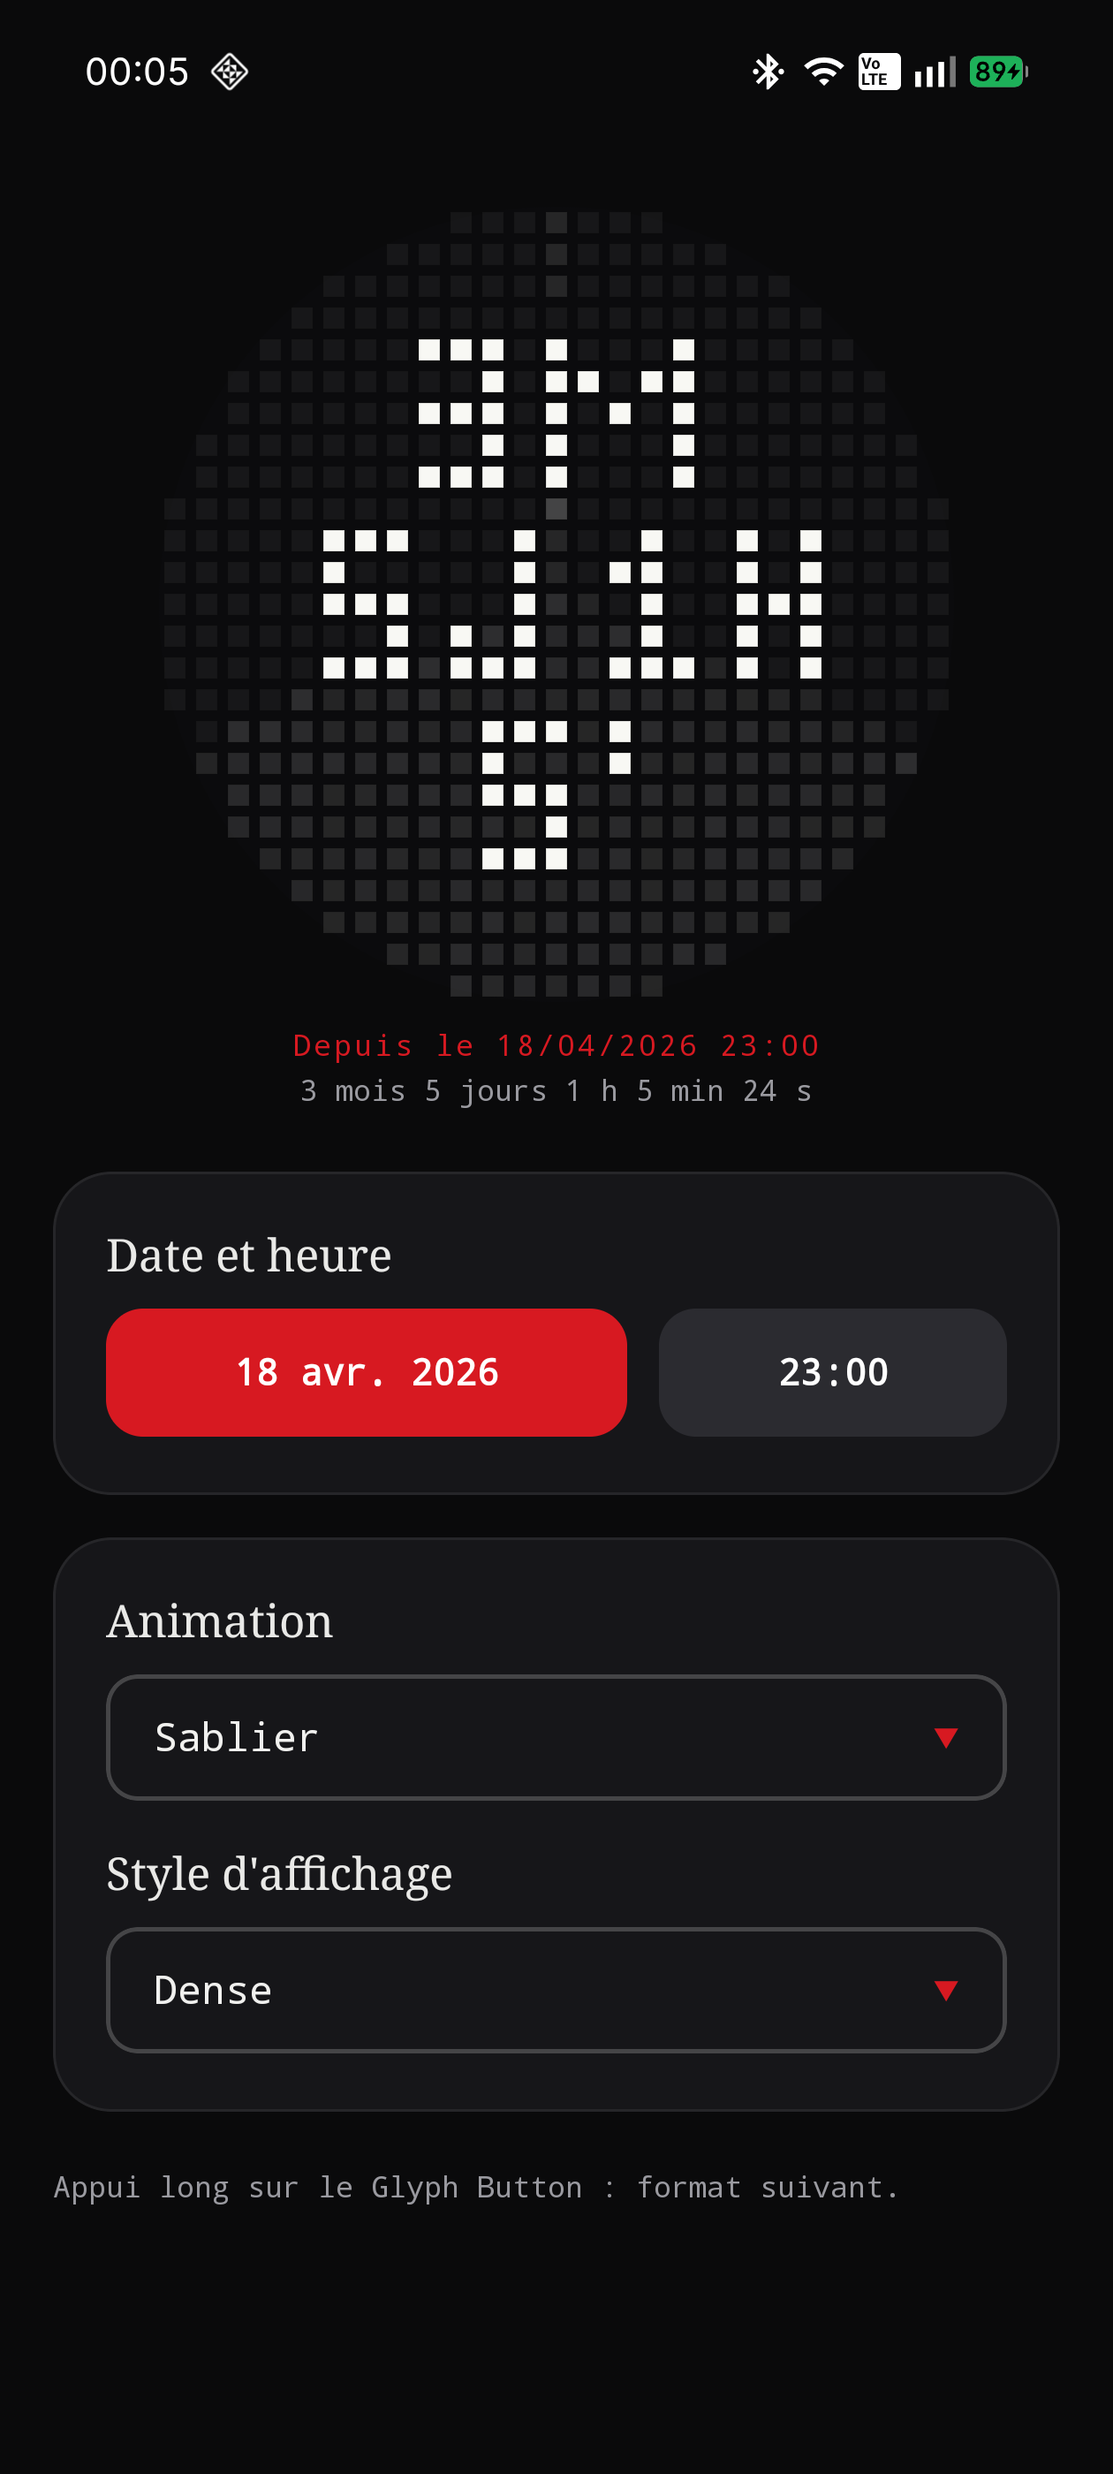
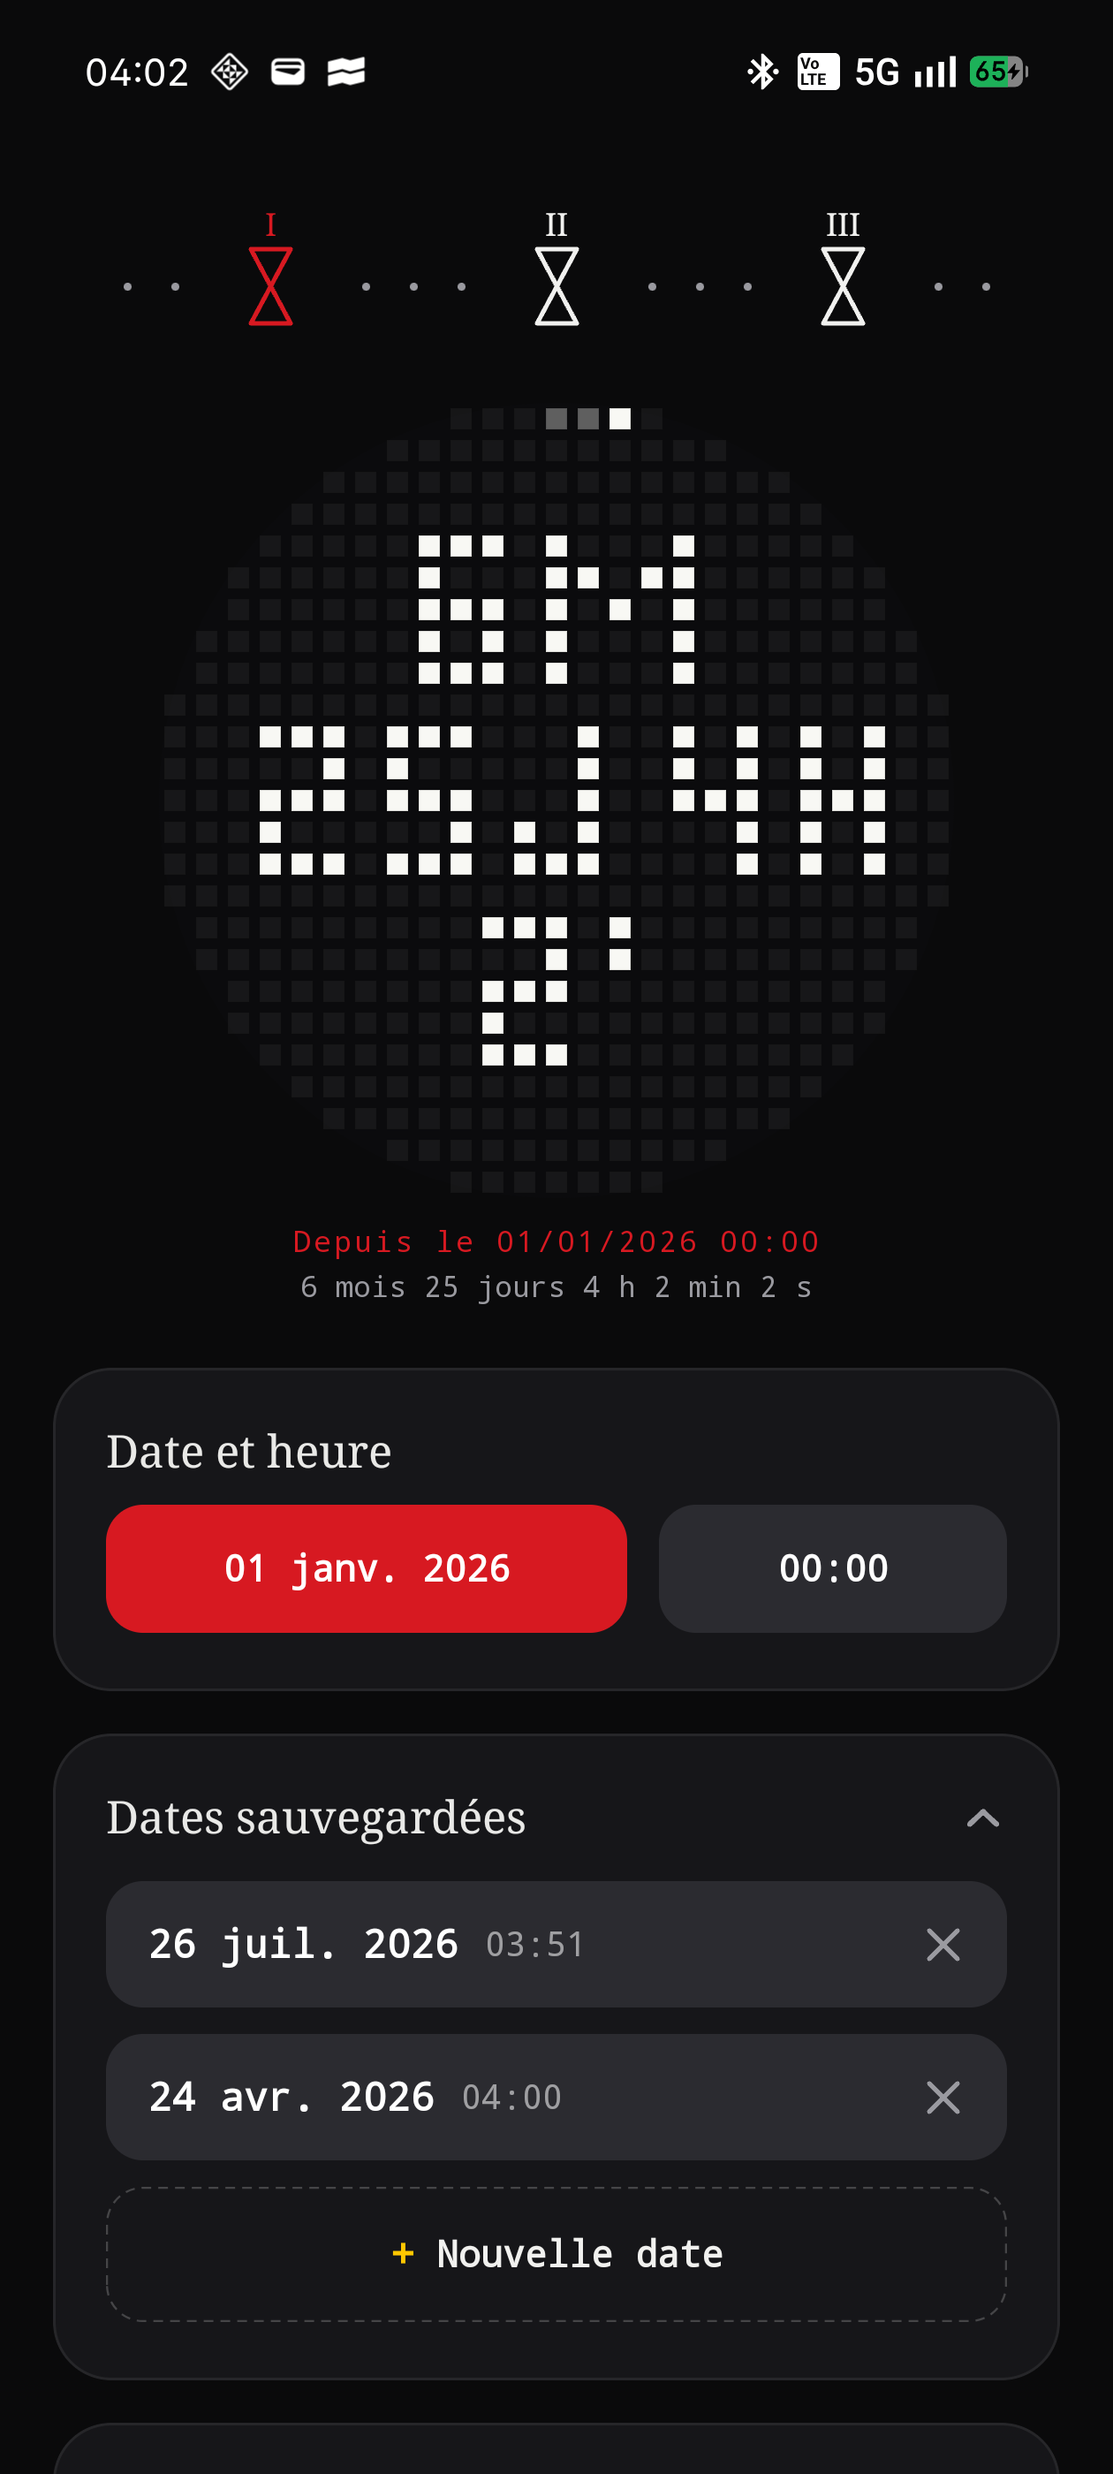
docs : specs à jour + screenshot des réglages
- SPECS.md et README réécrits (multi-lapse, cycle vertical, appui long = lapse suivant, icône Grain)
- Nouveau screenshot de l'app de réglages (sélecteur sabliers)

diff --git a/SPECS.md b/SPECS.md
@@ -4,20 +4,25 @@ Glyph Toy « compteur temporel » : affiche le temps écoulé **depuis** une dat
 de référence, ou restant **jusqu'à** elle. La direction est déduite
 automatiquement : référence passée → depuis, future → jusqu'à.
 
+Jusqu'à **3 lapse** indépendants (chacun sa date, son format, son animation) ;
+un seul est affiché à la fois sur la Glyph, l'appui long passe au suivant.
+
 ## Constantes
 
 | Nom | Valeur | Description |
 |-----|-------:|-------------|
 | `SIZE` | 25 | Matrice 25×25 |
 | `RADIUS` | 12,5 | Masque circulaire centré (12,12) — ~489 LEDs |
-| `FONTS` | 5×7 / 3×5 / 3×4 | Police selon le nombre de lignes (≤2 / 3-4 / 5) |
-| `MAX_LINES` | 5 | Lignes max au centre (5×4 + 4 interlignes = 24 px) |
+| `FONTS` | 5×7 / 3×5 | Police selon le nombre de lignes (≤2 lignes / 3+) |
 | `RING_BAND` | 11,3–12,5 | Cellules de l'anneau des secondes (bord du disque) |
 | `TICK` | 1 Hz | Rendu au repos, aligné sur la seconde |
-| FPS anim | 30 | Pendant transitions et animation d'arrivée |
+| FPS anim | 30 | Transitions, cycle, sablier, arrivée |
 | `CYCLE_PERIOD` | 2 s | Durée par unité en format Cycle |
-| `SLIDE` | 0,3 s | Transition de slide (cycle & changement de format) |
+| `SLIDE` | 0,3 s | Slide de changement de format (moteur, dormant — cf. Interaction) |
+| `LAPSE_SLIDE` | 0,35 s | Slide horizontal de changement de lapse |
 | `ARRIVAL` | ~4 s | Animation d'arrivée (compte à rebours atteint) |
+| `LAPSE_COUNT` | 3 | Nombre de lapse configurables |
+| `SAVED_MAX` | 5 | Dates favorites maximum |
 
 ## Décomposition calendaire
 
@@ -28,7 +33,7 @@ automatiquement : référence passée → depuis, future → jusqu'à.
   portées par **l'anneau périphérique** (pas de ligne dédiée).
 - **Pertinence** : les unités de tête à zéro sont masquées (diff de 5 jours →
   pas de « 0A 0M », on commence à `J`). En dessous de la première unité non
-  nulle, **granularité complète** : jusqu'à 5 lignes (`A M J H ′`).
+  nulle, **granularité complète** : jusqu'à 5 unités (`A M J H ′`).
 - **Centrage disc-aware** : chaque ligne est centrée puis nudgée de ±1-3 px
   si des pixels sortiraient du disque (bandes haut/bas plus étroites).
 - Diff < 1 min : la valeur des secondes s'affiche au centre (5×7), l'anneau
@@ -36,28 +41,30 @@ automatiquement : référence passée → depuis, future → jusqu'à.
 
 ## Formats d'affichage
 
-Sélectionnés dans l'app, cyclés par appui long sur le Glyph Button :
+Réglés par lapse dans l'app (l'appui long ne cycle plus les formats, il change
+de lapse) :
 
-1. **Détail** *(défaut)* — granularité complète : une ligne par unité
-   pertinente (valeur + lettre), jusqu'à 5 lignes. Police 5×7 si ≤ 2 lignes,
-   3×5 si 3-4, **3×4** si 5 lignes (années → minutes toutes visibles).
-   *Variante à l'essai* **Détail 2** : même granularité mais 2 unités par
-   ligne quand nécessaire — `[A]` / `[M J]` / `[H ′]` (calendrier au centre,
-   horloge en bas, séparateur 2 px) — police 3×5 partout, jamais de 3×4.
-   Une des deux variantes sera retenue après essai sur la préview.
+1. **Dense** *(défaut)* — granularité complète, 2 unités par ligne quand
+   nécessaire : `[A]` / `[M J]` / `[H ′]` (calendrier au centre, horloge en bas,
+   séparateur 2 px). Police 3×5 partout (jamais de 3×4), 5×7 si ≤ 2 unités.
 2. **Compact** — les 2 unités les plus significatives, police 5×7.
 3. **Cycle** — une unité à la fois plein écran (valeur 5×7, lettre en dessous),
-   slide horizontal toutes les `CYCLE_PERIOD`.
+   **défilement vertical vers le haut** toutes les `CYCLE_PERIOD` (le suivant
+   monte depuis le bas, le précédent sort par le haut). Le sens vertical évite
+   la confusion avec le slide **horizontal** de changement de lapse.
 4. **Jours** — total de jours uniquement : `J-n` en compte à rebours
    (classique « J-42 »), `nJ` en écoulé. 5×7 si ≤ 4 caractères, sinon 3×5.
 
-Tous les formats conservent l'anneau des secondes.
+*(Le format « Détail » 1 unité/ligne jusqu'à 5 lignes en 3×4 a été retiré :
+Dense le remplace, on limite le nombre de formats.)*
 
-## Secondes — minute en cours (réglage : anneau ou sablier)
+Tous les formats conservent l'anneau/sablier des secondes.
+
+## Secondes — minute en cours (réglage par lapse : anneau ou sablier)
 
 **Anneau** *(défaut)* :
 - Cellules du bord (distance ∈ `RING_BAND`) triées par angle depuis 12 h.
-- Arc allumé proportionnel à `s/60` : tête à 100 %, traînée dégradée (~35 %).
+- Arc allumé proportionnel à `s/60` : tête à 100 %, traînée dégradée (~32 %).
 - Sens **horaire** en mode depuis (le temps s'accumule), **anti-horaire**
   en mode jusqu'à (le temps s'épuise).
 
@@ -67,25 +74,46 @@ Tous les formats conservent l'anneau des secondes.
   quantifié à la ligne, mis à jour à la seconde.
 - **Surface en cône** (angle de talus `SLOPE` = 0,45 ligne/colonne) :
   pointe au centre en depuis (le sable s'empile sous le filet), entonnoir
-  en jusqu'à (il s'écoule par le trou central). La hauteur de base est
-  ajustée par dichotomie pour que le nombre de cellules de sable reste
-  `s/60 × 489` — le cône ne fausse pas la lecture du temps.
+  en jusqu'à. La hauteur de base est ajustée par dichotomie pour que le nombre
+  de cellules de sable reste `s/60 × 489` — le cône ne fausse pas la lecture.
 - **Texture** : surface irrégulière (dithering déterministe ~55 %), corps
-  avec bruit granulaire figé (10-15 %). Aucun pixel détaché au-dessus de la
-  surface (effet « grains volants » écarté à l'essai).
-- Luminosités : sable 10-16 %, filet central ~7 % — bien en dessous de la
-  traînée d'anneau (35 %), le texte (100 %) reste lisible par-dessus.
+  avec bruit granulaire figé. Aucun pixel détaché au-dessus de la surface.
+- Luminosités **volontairement basses** : sable ~5,5-10 % (fond assombri),
+  filet central ~7 % — bien en dessous de la traînée d'anneau (32 %) ; le
+  texte (100 %) reste parfaitement lisible par-dessus.
 - Filet de sable vertical au centre en depuis, avec éclaboussure au point
-  d'impact (grain animé : préview uniquement, le toy reste à 1 Hz).
+  d'impact (grain animé à 30 fps ; le sablier force le mode animé).
 
 Les deux modes sont masqués en AOD (rendu statique, cf. Interaction).
+
+## Multi-lapse
+
+- **3 lapse indépendants**. Chaque lapse = `{ ref, format, seconds, enabled }`.
+  Le **lapse 0 est toujours actif** ; les lapse 1 & 2 sont **activables** (switch
+  dans l'app), désactivés par défaut.
+- **Défauts** : lapse 0 & 1 = 1ᵉʳ janvier de l'année courante 00:00 ; lapse 2 =
+  31 décembre de l'année courante 23:59 (un lapse a toujours une date, même
+  désactivé). Format défaut Dense, anim défaut Anneau.
+- `active_lapse` = lapse rendu sur la Glyph.
+- **Appui long** → lapse **activé** suivant (rotation, saute les désactivés),
+  avec **slide horizontal** `LAPSE_SLIDE` : le lapse courant sort vers la gauche,
+  le suivant entre par la droite (composite de deux frames complètes + tick
+  haptique). Un seul lapse activé → appui long sans effet.
+- **Sélection d'un onglet** dans l'app = change aussi le lapse actif (même slide
+  sur la Glyph). Un lapse désactivé reste sélectionnable dans l'app (il est
+  seulement exclu de la rotation d'appui long).
+- **Dates favorites communes** à tous les lapse (appliquer une date agit sur le
+  lapse en cours d'édition).
 
 ## Machine à états
 
 ```
-DISPLAY ──appui long──▶ FORMAT_SLIDE (0,3 s) ──▶ DISPLAY
+DISPLAY ──appui long / sélection onglet──▶ LAPSE_SLIDE (0,35 s) ──▶ DISPLAY
 DISPLAY ──diff atteint 0 (jusqu'à)──▶ ARRIVAL (~4 s) ──▶ DISPLAY (bascule depuis)
 ```
+
+(Le `FORMAT_SLIDE` du moteur existe toujours mais est dormant : les changements
+de format depuis l'app sont appliqués sans transition — `setFormatQuiet`.)
 
 ## Animation d'arrivée (jusqu'à → 0)
 
@@ -93,57 +121,84 @@ DISPLAY ──diff atteint 0 (jusqu'à)──▶ ARRIVAL (~4 s) ──▶ DISPLA
 2. *0,3–2,2 s* : 3 ondes concentriques (r = 14·t, largeur 1 px).
 3. *0–4 s* : anneau complet pulsé (sin 3 Hz).
 4. Fade-out, puis affichage « depuis » (compteur repart de 0).
-- Haptique : pattern long à l'arrivée, tick au changement de format.
+- Haptique : pattern long à l'arrivée, tick au changement de lapse.
 
 ## Architecture
 
 ```
 engine/  TimeBreakdown.kt, LapseEngine.kt — logique pure (java.time), testable JUnit
-render/  Fonts.kt, LapseRenderer.kt, Ring.kt, Arrival.kt — IntArray(625)/frame
-toy/     LapseToyService.kt, GlyphMatrixService.kt — seul module dépendant du SDK
-ui/      MainActivity.kt — configuration Compose + préview live 25×25
+render/  Fonts.kt, LapseRenderer.kt        — IntArray(625)/frame, sans SDK
+toy/     LapseToyService.kt,
+         GlyphMatrixService.kt             — seul module dépendant du GlyphMatrixSDK
+Config.kt                                  — SharedPreferences partagées app ↔ toy
+MainActivity.kt                            — configuration Compose + préview live
 ```
 
 Le temps est injecté (`nowEpochMillis` + zone) : décomposition et machine à
-états testables en JVM pure.
+états testables en JVM pure. Le slide de lapse est géré côté service (composite
+de deux frames de luminosité), les diff/formats restent dans le moteur.
 
 ## Configuration (app, avec raccourci launcher)
 
-Contrairement à GlyphSlot, l'app a une **icône launcher en release** : c'est
-l'interface de configuration.
+Interface Compose, **style Nothing** : fond noir, cartes arrondies, légendes
+serif, valeurs monospace, rouge de marque `#D71921` (jaune `#FFC700` réservé à
+la section des dates sauvegardées).
 
-- **Sélecteur de date + heure de référence** (Material 3 DatePicker/TimePicker).
-- **Sélecteur de format** (Détail / Compact / Cycle / Jours).
-- Libellé auto : « Depuis le … » / « Jusqu'au … » selon la date choisie.
-- **Préview live 25×25** : même moteur et même renderer que le toy.
-- Persistance : `SharedPreferences` (`ref_epoch_millis`, `format`) ;
-  le service écoute `OnSharedPreferenceChangeListener` → mise à jour immédiate
-  sans re-bind. Défaut : 1er janvier de l'année courante, 00:00 (mode depuis).
+- **Sélecteur de lapse** (haut d'écran) : 3 **sabliers filaires** (deux triangles
+  vides) posés sur une **ligne de points**, neck aligné sur la ligne, chiffres
+  romains I/II/III au-dessus ; l'actif est **rouge**, les autres blancs. Un point
+  retiré de chaque côté des sabliers (respiration).
+- **Switch d'activation** (lapse 2 & 3 seulement) : hors switch → exclu de la
+  rotation d'appui long.
+- **Carte Date et heure** : bouton date (rouge) + bouton heure (gris),
+  Material 3 DatePicker/TimePicker.
+- **Carte Dates sauvegardées** (collapsible, accent jaune) : jusqu'à `SAVED_MAX`
+  favoris, chevron gris de repli. Chaque carte = appliquer la date/heure au lapse
+  courant ; croix grise de suppression en overlay. « Nouvelle date » = picker
+  date puis heure (défaut : maintenant), masqué au-delà de `SAVED_MAX`.
+- **Carte Style** : select box **Animation** (Anneau/Sablier) + **Style
+  d'affichage** (Dense/Compact/Cycle/Jours) — propres à chaque lapse.
+- **Préview live 25×25** : même moteur et même renderer que le toy, reflète le
+  lapse sélectionné.
+- Persistance `SharedPreferences`, clés par index :
+  - Lapse 0 : `ref_epoch_millis`, `format`, `seconds_mode` (clés historiques).
+  - Lapse 1/2 : `ref_i`, `format_i`, `seconds_i`, `enabled_i`.
+  - `active_lapse` (index affiché), `saved_dates` (CSV de millis, commun).
+  - Le service écoute `OnSharedPreferenceChangeListener` → mise à jour immédiate
+    (et déclenche le slide si `active_lapse` change).
 
 ## Interaction Glyph Button
 
 | Event | Action |
 |-------|--------|
 | Short press | Système : cycle entre les toys |
-| Long press (« change ») | Format suivant (slide + tick haptique) |
-| `EVENT_AOD` | Rendu statique sans anneau, 1 update/min |
+| Long press (« change ») | Lapse activé suivant (slide horizontal + tick haptique) |
+| `EVENT_AOD` | Rendu statique sans anneau/sablier, 1 update/min |
 | `onUnbind` | Stop boucle + extinction matrice |
 
 ## Boucle de rendu
 
 - Repos : 1 tick/s **aligné sur la seconde** (`postDelayed` jusqu'à la
   prochaine frontière) — l'anneau avance pile au tic.
-- 30 fps uniquement pendant `FORMAT_SLIDE`, le slide du format Cycle et
-  `ARRIVAL`, retour à 1 Hz ensuite (batterie).
+- 30 fps pendant `LAPSE_SLIDE`, le format Cycle, le mode Sablier et `ARRIVAL`,
+  retour à 1 Hz ensuite (batterie).
 
-## Icône
+## Icône — concept « Grain »
 
-`glyphlapse-icon.svg` : sablier pixel-art (sprite 13×17 centré) sur la matrice
-circulaire. **Structure 1:1 avec `glyphslot-icon.svg`** — mêmes defs (bordure
-adaptive icon, plaque circulaire, dégradés), même géométrie de LED (11,5 px
-arrondies, positions identiques) et mêmes 4 groupes : LEDs éteintes
-(#FFFFFF 0,05), sable atténué (#B9B9B4 0,55), halo unique sous glow
-(#FFFFFF 0,55, `stdDeviation` 5, pas de double merge → bloom maîtrisé), cadre
-allumé (#F8F8F4). Chambre haute pleine qui draine par l'entonnoir, grain dans
-le col, monticule en bas. `toy_preview.xml` (drawable Android) = même sprite
-en LEDs carrées sans halo ni fond, pour la liste des Glyph Toys.
+`glyphlapse-icon.svg` et `app/.../drawable/ic_launcher.xml` (miroir) : **sablier
+dessiné dans la matrice de points** de la Glyph — rangées `7-5-3-1-3-5-7` (31
+points carrés arrondis, façon LED Nothing), occupant ~77 % du canvas 512, sur
+fond **blanc** tuile Nothing (coins `rx = 112`). Le **point central de
+l'avant-dernière rangée est rouge** `#D71921` : le grain de sable qui tombe / la
+seconde qui s'écoule. `toy_preview.xml` = vignette de la matrice pour la liste
+des Glyph Toys (`com.nothing.glyph.toy.image`).
+
+## Build / debug
+
+- Signature release via `keystore.properties` (gitignoré) ou secrets CI
+  (`KEYSTORE_BASE64`, `KEYSTORE_PASSWORD`, `KEY_ALIAS`, `KEY_PASSWORD`) ; à
+  défaut, retombe sur la clé debug. Release publiée par tag `vX.Y.Z`
+  (`.github/workflows/release.yml`).
+- Le build **debug** porte `applicationIdSuffix = ".debug"` : `dev.aero.glyphlapse.debug`
+  cohabite avec la prod signée `dev.aero.glyphlapse` (deux icônes, deux toys,
+  aucun conflit de signature).

diff --git a/README.md b/README.md
@@ -6,9 +6,10 @@
 
 Glyph Toy « compteur temporel » pour la Glyph Matrix du Nothing Phone (3) :
 temps écoulé **depuis** une date de référence, ou restant **jusqu'à** elle
-(direction déduite automatiquement). Configurable via l'app (date/heure,
-format d'affichage, secondes en anneau ou sablier), appui long sur le
-Glyph Button pour changer de format.
+(direction déduite automatiquement). Jusqu'à **3 lapse** configurables
+(chacun sa date, son format, son animation), appui long sur le Glyph Button
+pour passer au lapse actif suivant. Configurable via l'app (date/heure,
+format d'affichage, secondes en anneau ou sablier).
 
 **[▶ Préview interactive](https://aero-md.github.io/glyphlapse/)** — le
 prototype web ([glyph-lapse-preview.html](glyph-lapse-preview.html)) jouable
@@ -37,10 +38,9 @@ renderer avec le toy.
 
 | Format | Affichage |
 |--------|-----------|
-| Détail *(défaut)* | Une ligne par unité pertinente, jusqu'à 5 (police 5×7 / 3×5 / 3×4 selon le nombre) |
-| Dense | Même granularité, 2 unités par ligne si besoin — 3×5 partout |
+| Dense *(défaut)* | Granularité complète, 2 unités par ligne si besoin — 3×5 partout |
 | Compact | Les 2 unités les plus significatives en 5×7 |
-| Cycle | Une unité plein écran, slide toutes les 2 s |
+| Cycle | Une unité plein écran, défilement vertical toutes les 2 s |
 | Jours | Total de jours (« J-42 » en compte à rebours) |
 
 Les secondes vivent sur l'**anneau** périphérique (horaire en depuis,
@@ -83,15 +83,19 @@ MainActivity.kt                            configuration Compose + préview live
 ```
 
 Boucle de rendu : 1 tick/s **aligné sur la seconde** au repos, 30 fps pendant
-les animations (slide de format, format Cycle, arrivée). AOD : `EVENT_AOD`
+les animations (changement de lapse, format Cycle, arrivée). AOD : `EVENT_AOD`
 chaque minute → rendu statique sans anneau/sablier.
+
+Multi-lapse : jusqu'à 3 lapse indépendants (date/format/animation propres),
+persistés par index dans les mêmes SharedPreferences ; `active_lapse` désigne
+celui rendu sur la Glyph. Les dates favorites sont communes à tous les lapse.
 
 ## Interaction
 
 | Event | Action |
 |-------|--------|
 | Appui court | Système : cycle entre les toys |
-| Appui long (« change ») | Format suivant (slide + tick haptique) |
+| Appui long (« change ») | Lapse actif suivant (slide horizontal + tick haptique) |
 | Compte à rebours à 0 | Animation d'arrivée + pattern haptique, bascule en depuis |
 | `onUnbind` | Stop boucle + extinction matrice |
 
